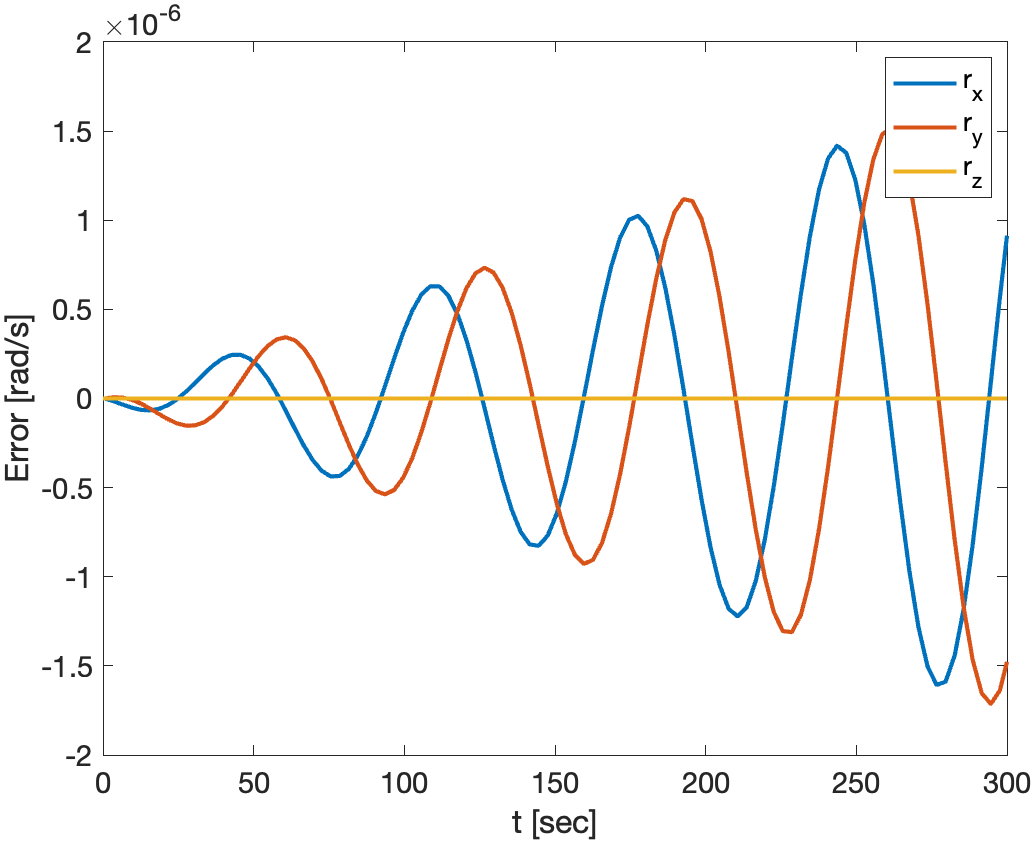
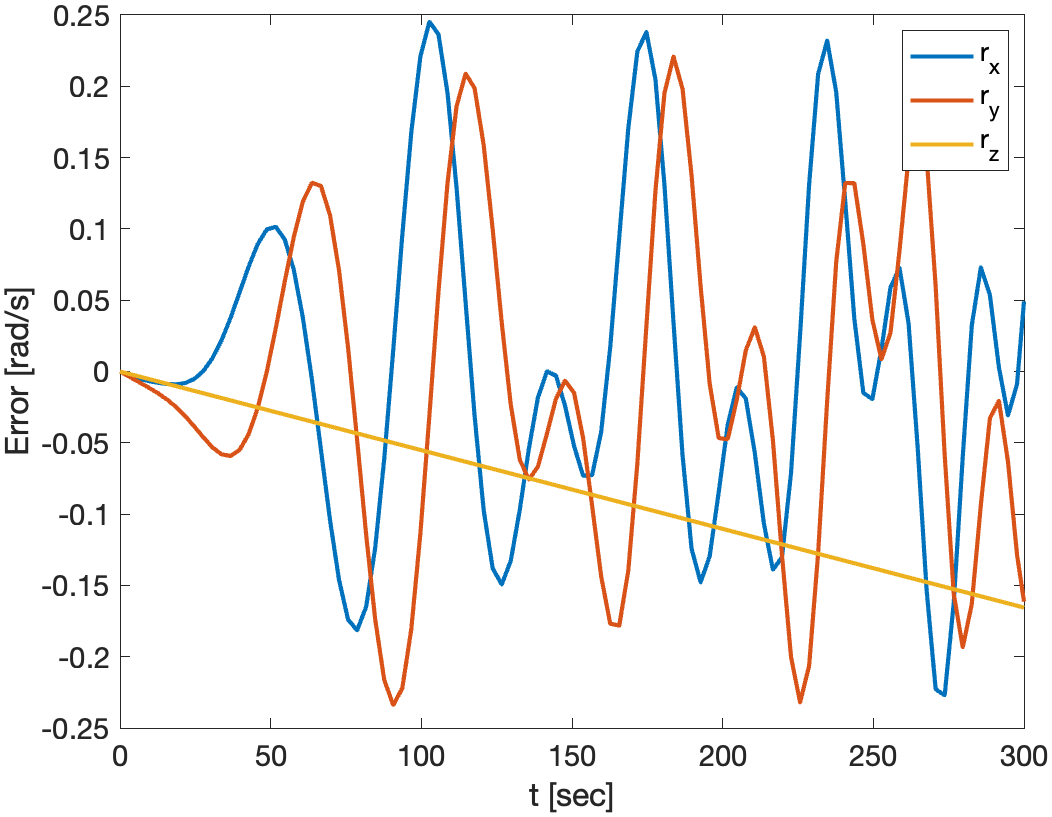
added programatic input to HW3main

diff --git a/Code/HW3main.m b/Code/HW3main.m
@@ -13,9 +13,9 @@ x0_deg = [-7, 2, 5].';
 x0 = deg2rad(x0_deg);
 Tfinal = 300;
 axesFlag = 0;
-M = timeseries(20.*ones([3 2]), [0 Tfinal]);
+M = timeseries(zeros([3 2]), [0 Tfinal]);
 simIn = Simulink.SimulationInput('eulerPropagate');
-simIn = simIn.setVariable('M', M);
+simIn.ExternalInput = M;
 
 load_system("eulerPropagate")
 % open_system("eulerPropagate")
